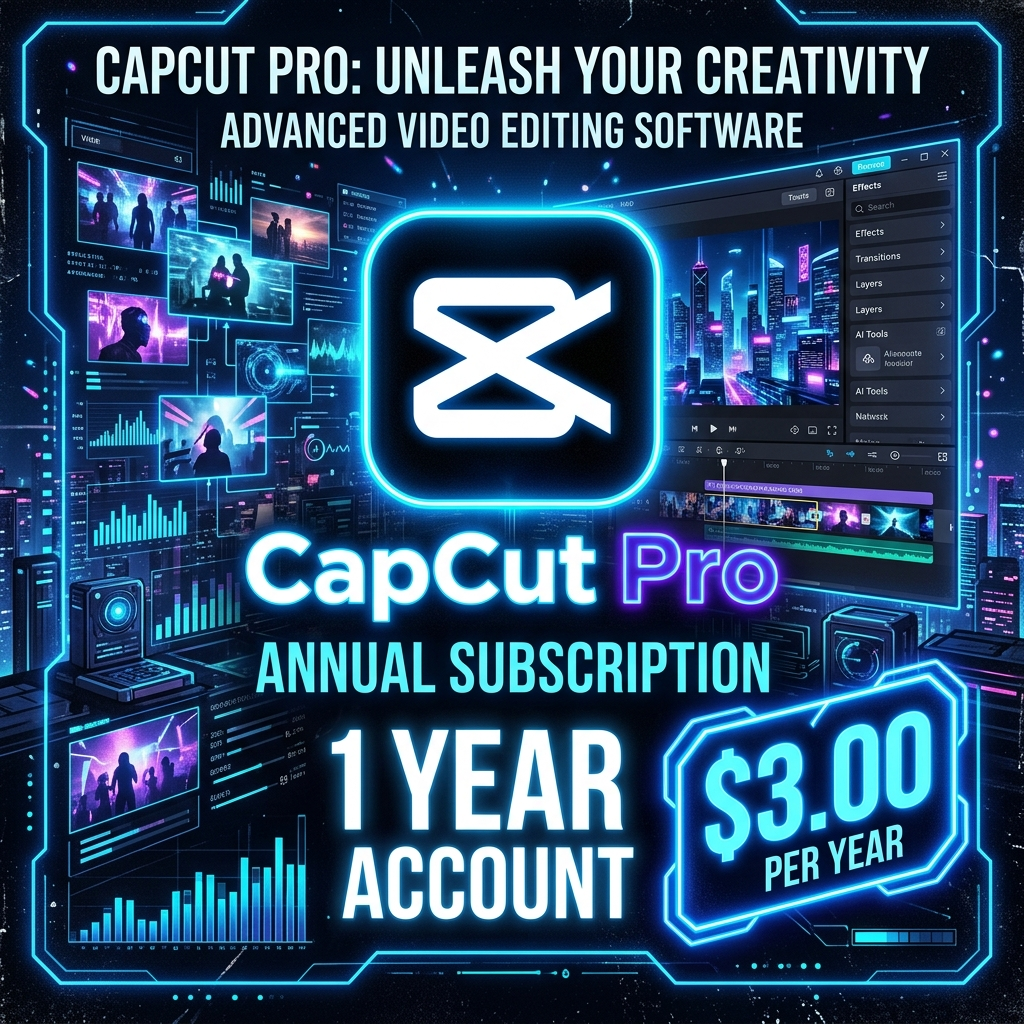
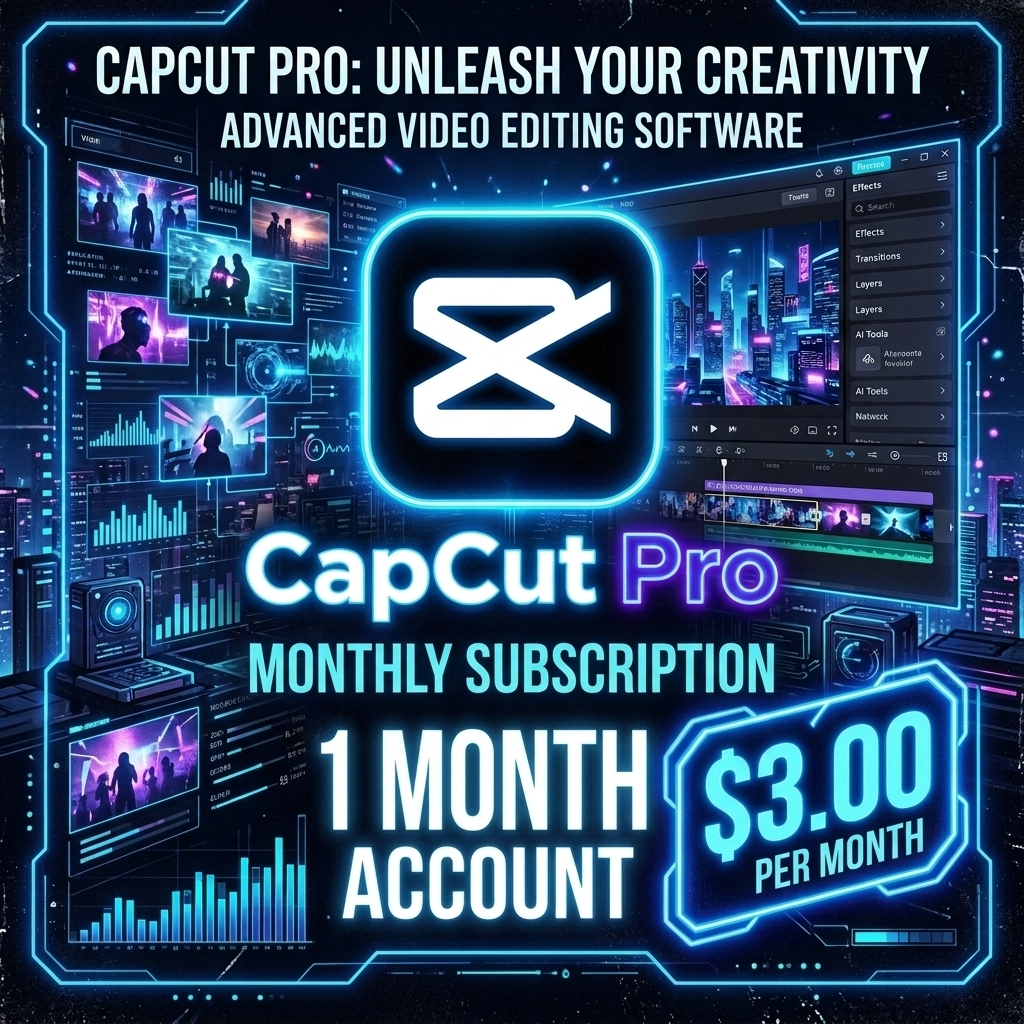
fix: update CapCut Pro image to monthly and bust telegram cache

diff --git a/functions/telegram-bot.js b/functions/telegram-bot.js
@@ -97,7 +97,7 @@ async function sendProductDetail(botUrl, chatId, messageId, productId, siteUrl) 
   const p = products.find(item => item.id === productId);
   if (!p) return;
 
-  const imageUrl = p.image.startsWith('.') ? `${siteUrl}/${p.image.substring(2)}` : p.image;
+  const imageUrl = (p.image.startsWith('.') ? `${siteUrl}/${p.image.substring(2)}` : p.image) + "?v=14.4";
   
   const featuresText = (p.features && p.features.length > 0)
     ? p.features.map(f => `• ${f}`).join("\n")

diff --git a/config.js b/config.js
@@ -9,5 +9,5 @@ const CONFIG = {
   TELEGRAM_BOT_USERNAME: "js7kh_bot",
   
   // ជំនាន់ឯកសារ/រូបភាព (Asset Version) សម្រាប់អាប់ដេតរូបភាពកុំអោយជាប់ Cache លើទូរស័ព្ទដៃ
-  ASSET_VERSION: "14.3"
+  ASSET_VERSION: "14.4"
 };
